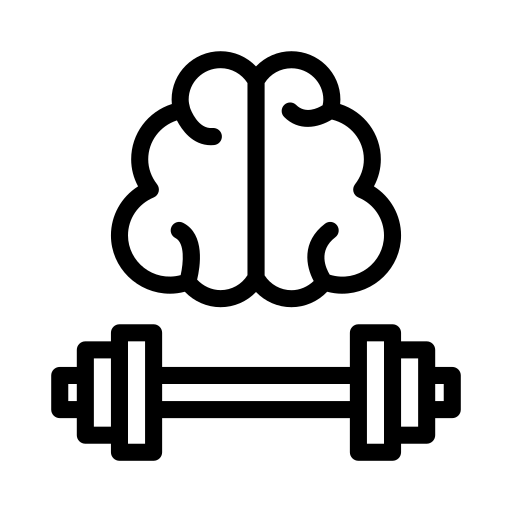
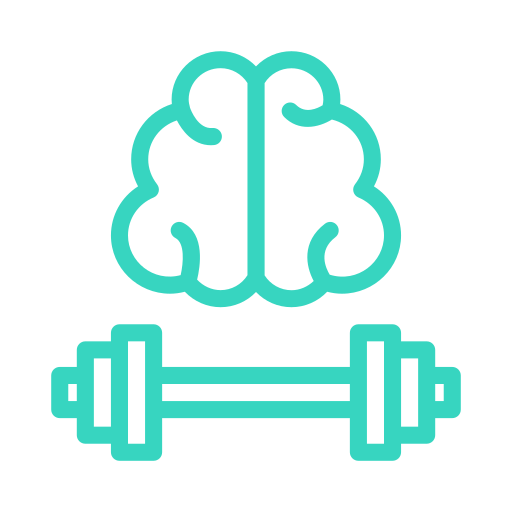
Como empezar terminado

Changed region(s): [[0.2188, 0.0938, 0.7812, 0.625], [0.0938, 0.625, 0.9062, 0.9062]]

diff --git a/index.html b/index.html
@@ -253,29 +253,35 @@
                 </div>
                 <div class="text-content">
                   <div class="home text">
-                    <div class="title">¿Y esta página?</div>
+                    <h3 class="title">Ejercitate</h3>
+                    <img class="custom-icon-empezar" src="imagenes/Iconos/mision.png"/>
                     <p>
-                      Agrupamos el todo el conocimiento disponible y para
-                      facilitarte el inicio en el camino del fitness.
+                      Agrupamos todo el conocimiento disponible<br/> 
+                      para facilitarte el inicio en el camino del fitness.<br/>
                     </p>
                   </div>
                   <div class="blog text">
-                    <div class="title">¿Yin y Yang?</div>
-                    <p></p>
+                    <h3 class="title">¿Yin y Yang?</h3>
+                    <img class="custom-icon-empezar" src="imagenes/Iconos/mente.png"/>
+                    <p>Para realizar un cambio es fundamental<br/> investigar y aprender, aquí solo tienes que aprender.</p>
                   </div>
                   <div class="help text">
-                    <div class="title">
+                    <h3 class="title">
                       ¿Cuantas flexiones debo hacer para estar como La roca?
-                    </div>
-                    <p></p>
+                    </h3>
+                    <img class="custom-icon-cuerpo" src="imagenes/Iconos/cuerpo.png"/>
+                    <p>Terminar las series es bueno, pero aún mejor<br/> 
+                    es tener una buena técnica, así, nos evitamos lesiones.</p>
                   </div>
                   <div class="code text">
-                    <div class="title">¿Cuantas hamburguesas puedo comer?</div>
-                    <p></p>
+                    <h3 class="title">¿Cuantas hamburguesas puedo comer?</h3>
+                    <img class="custom-icon-cuerpo" src="imagenes/Iconos/comida-sana.png"/>
+                    <p>No te vamos decir lo que debes de comer, te brindamos información para que sepas complementar tu nuevo estilo de vida.</p>
                   </div>
                   <div class="about text">
-                    <div class="title">!Hola mundo¡</div>
-                    <p></p>
+                    <h3 class="title">!Hola mundo¡</h3>
+                    <img class="custom-icon-cuerpo" src="imagenes/Iconos/comunidad-2.png"/>
+                    <p>Te recomendamos usar la sección de comunidad<br/> para enterarte de eventos, nuevos artículos y más.</p>
                   </div>
                 </div>
               </div>

diff --git a/estilos/custom-sass.scss b/estilos/custom-sass.scss
@@ -19,6 +19,9 @@ $navbar-light-color: white;
 
 $fuente-principal: Roboto, sans-serif;
 $color-principal: #e43939;
+$text-color-principal: black;
+$text-color-principal-light: #fff;
+$color-alterno: #37D5C0;
 
 
 *::selection {
@@ -196,6 +199,16 @@ section#empezar {
 
 //Slider
 
+.custom-icon-empezar {
+  height: 6em;
+  margin-bottom: 2em;
+}
+
+.custom-icon-cuerpo {
+  height: 5em;
+  margin-bottom: 2em;
+}
+
 ::selection {
   background: #e43939;
   color: #fff;
@@ -205,8 +218,8 @@ section#empezar {
   width: 100%;
   padding: 40px 50px 40px 40px;
   border-radius: 50px;
-  background: #c0c0c0f8;
-  box-shadow: inset 20px 20px 40px #bebebe, inset 20px 20px 40px #ffffff;
+  background: #343333f8;
+  // box-shadow: inset 20px 20px 40px #bebebe, inset 20px 20px 40px #ffffff;
 
 }
 
@@ -287,15 +300,15 @@ section#empezar {
 
     .title {
       font-size: 2em;
-      margin-bottom: 1.8em;
-      color: $color-principal;
-      text-shadow:  black 1px 1px;
+      margin-bottom: 1em;
+      color: #fff;
+      text-shadow: $text-color-principal 6px 6px;
       font-weight: bold;
     }
 
     p {
       text-align: center;
-      color: black;
+      color: $text-color-principal-light;
       font-size: 1.5em;
     }
   }

diff --git a/estilos/custom-sass.css b/estilos/custom-sass.css
@@ -1697,6 +1697,14 @@ section#empezar {
   .custom-h2-empezar:hover {
     text-shadow: #e43939 1px 10px; }
 
+.custom-icon-empezar {
+  height: 6em;
+  margin-bottom: 2em; }
+
+.custom-icon-cuerpo {
+  height: 5em;
+  margin-bottom: 2em; }
+
 ::selection {
   background: #e43939;
   color: #fff; }
@@ -1705,8 +1713,7 @@ section#empezar {
   width: 100%;
   padding: 40px 50px 40px 40px;
   border-radius: 50px;
-  background: #c0c0c0f8;
-  box-shadow: inset 20px 20px 40px #bebebe, inset 20px 20px 40px #ffffff; }
+  background: #343333f8; }
 
 .content {
   display: flex;
@@ -1767,13 +1774,13 @@ section#empezar {
   display: none; }
   .content .text .title {
     font-size: 2em;
-    margin-bottom: 1.8em;
-    color: #e43939;
-    text-shadow: black 1px 1px;
+    margin-bottom: 1em;
+    color: #fff;
+    text-shadow: black 6px 6px;
     font-weight: bold; }
   .content .text p {
     text-align: center;
-    color: black;
+    color: #fff;
     font-size: 1.5em; }
 
 .content .text-content .home {
